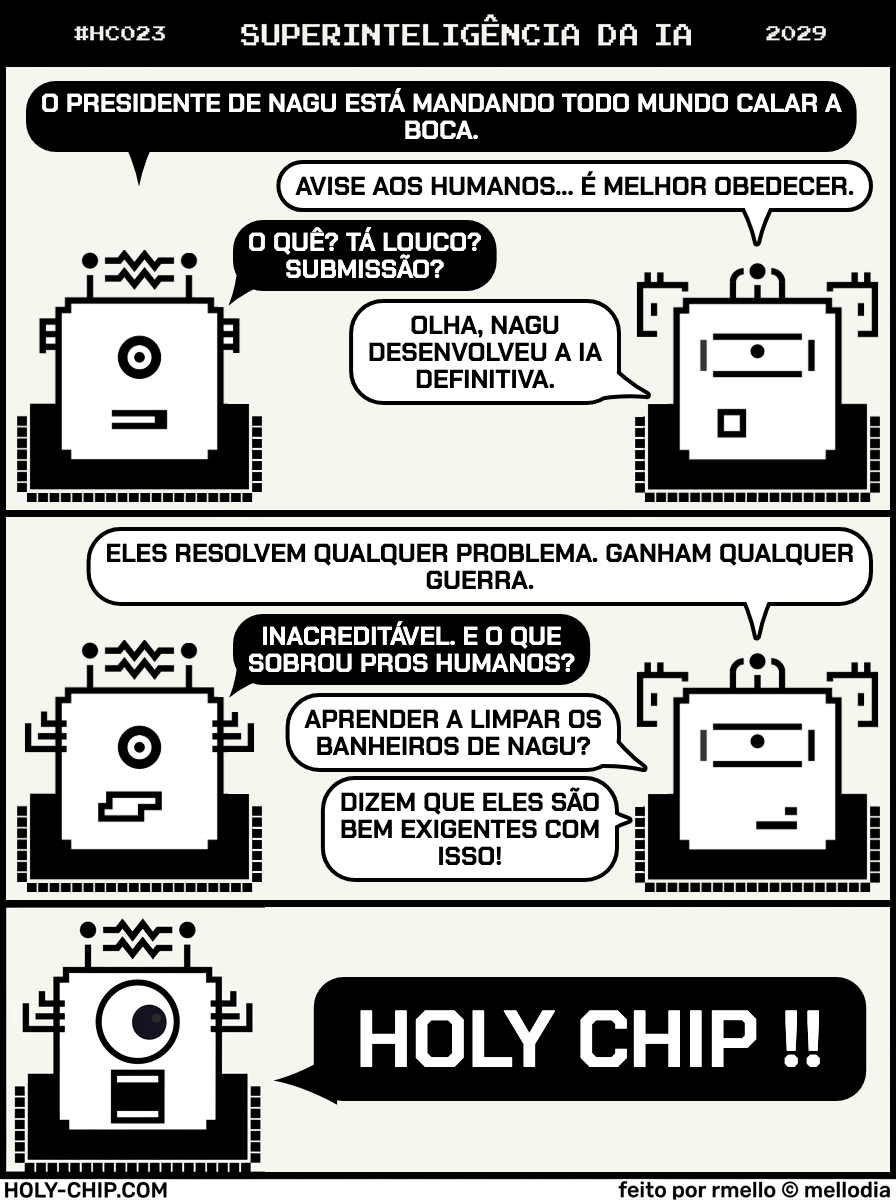
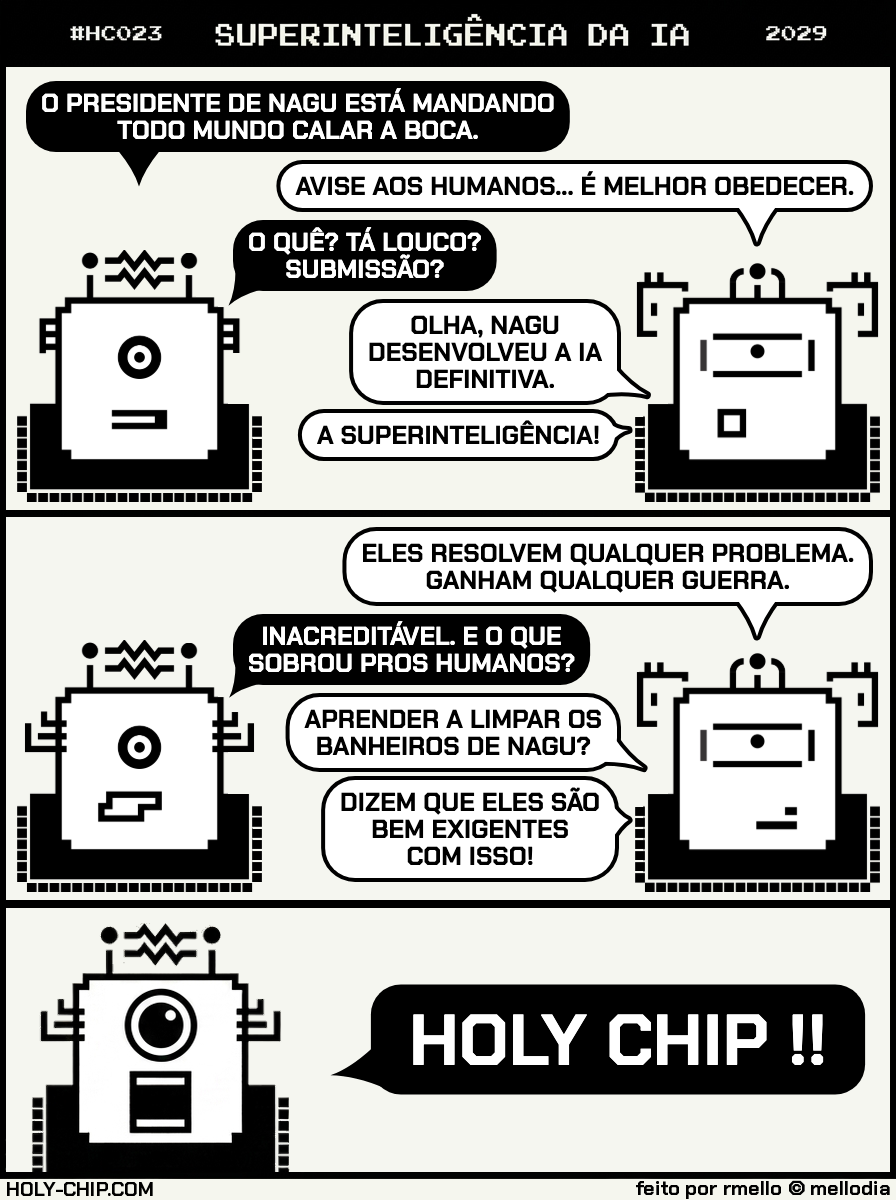
HC023 PT redone: SUPERINTELIGÊNCIA DA IA, current lettering, A SUPERINTELIGÊNCIA! bubble

diff --git a/origins/HC023.html b/origins/HC023.html
@@ -637,6 +637,10 @@
             <span class="dialog-speaker-label">Chip 1</span>
             <span class="dialog-text">OLHA, NAGU DESENVOLVEU A IA DEFINITIVA.</span>
           </div>
+          <div class="dialog-line">
+            <span class="dialog-speaker-label">Chip 1</span>
+            <span class="dialog-text">A SUPERINTELIGÊNCIA!</span>
+          </div>
         </div>
         <div class="dialog-panel">
           <div class="dialog-panel-label">Painel 2</div>
